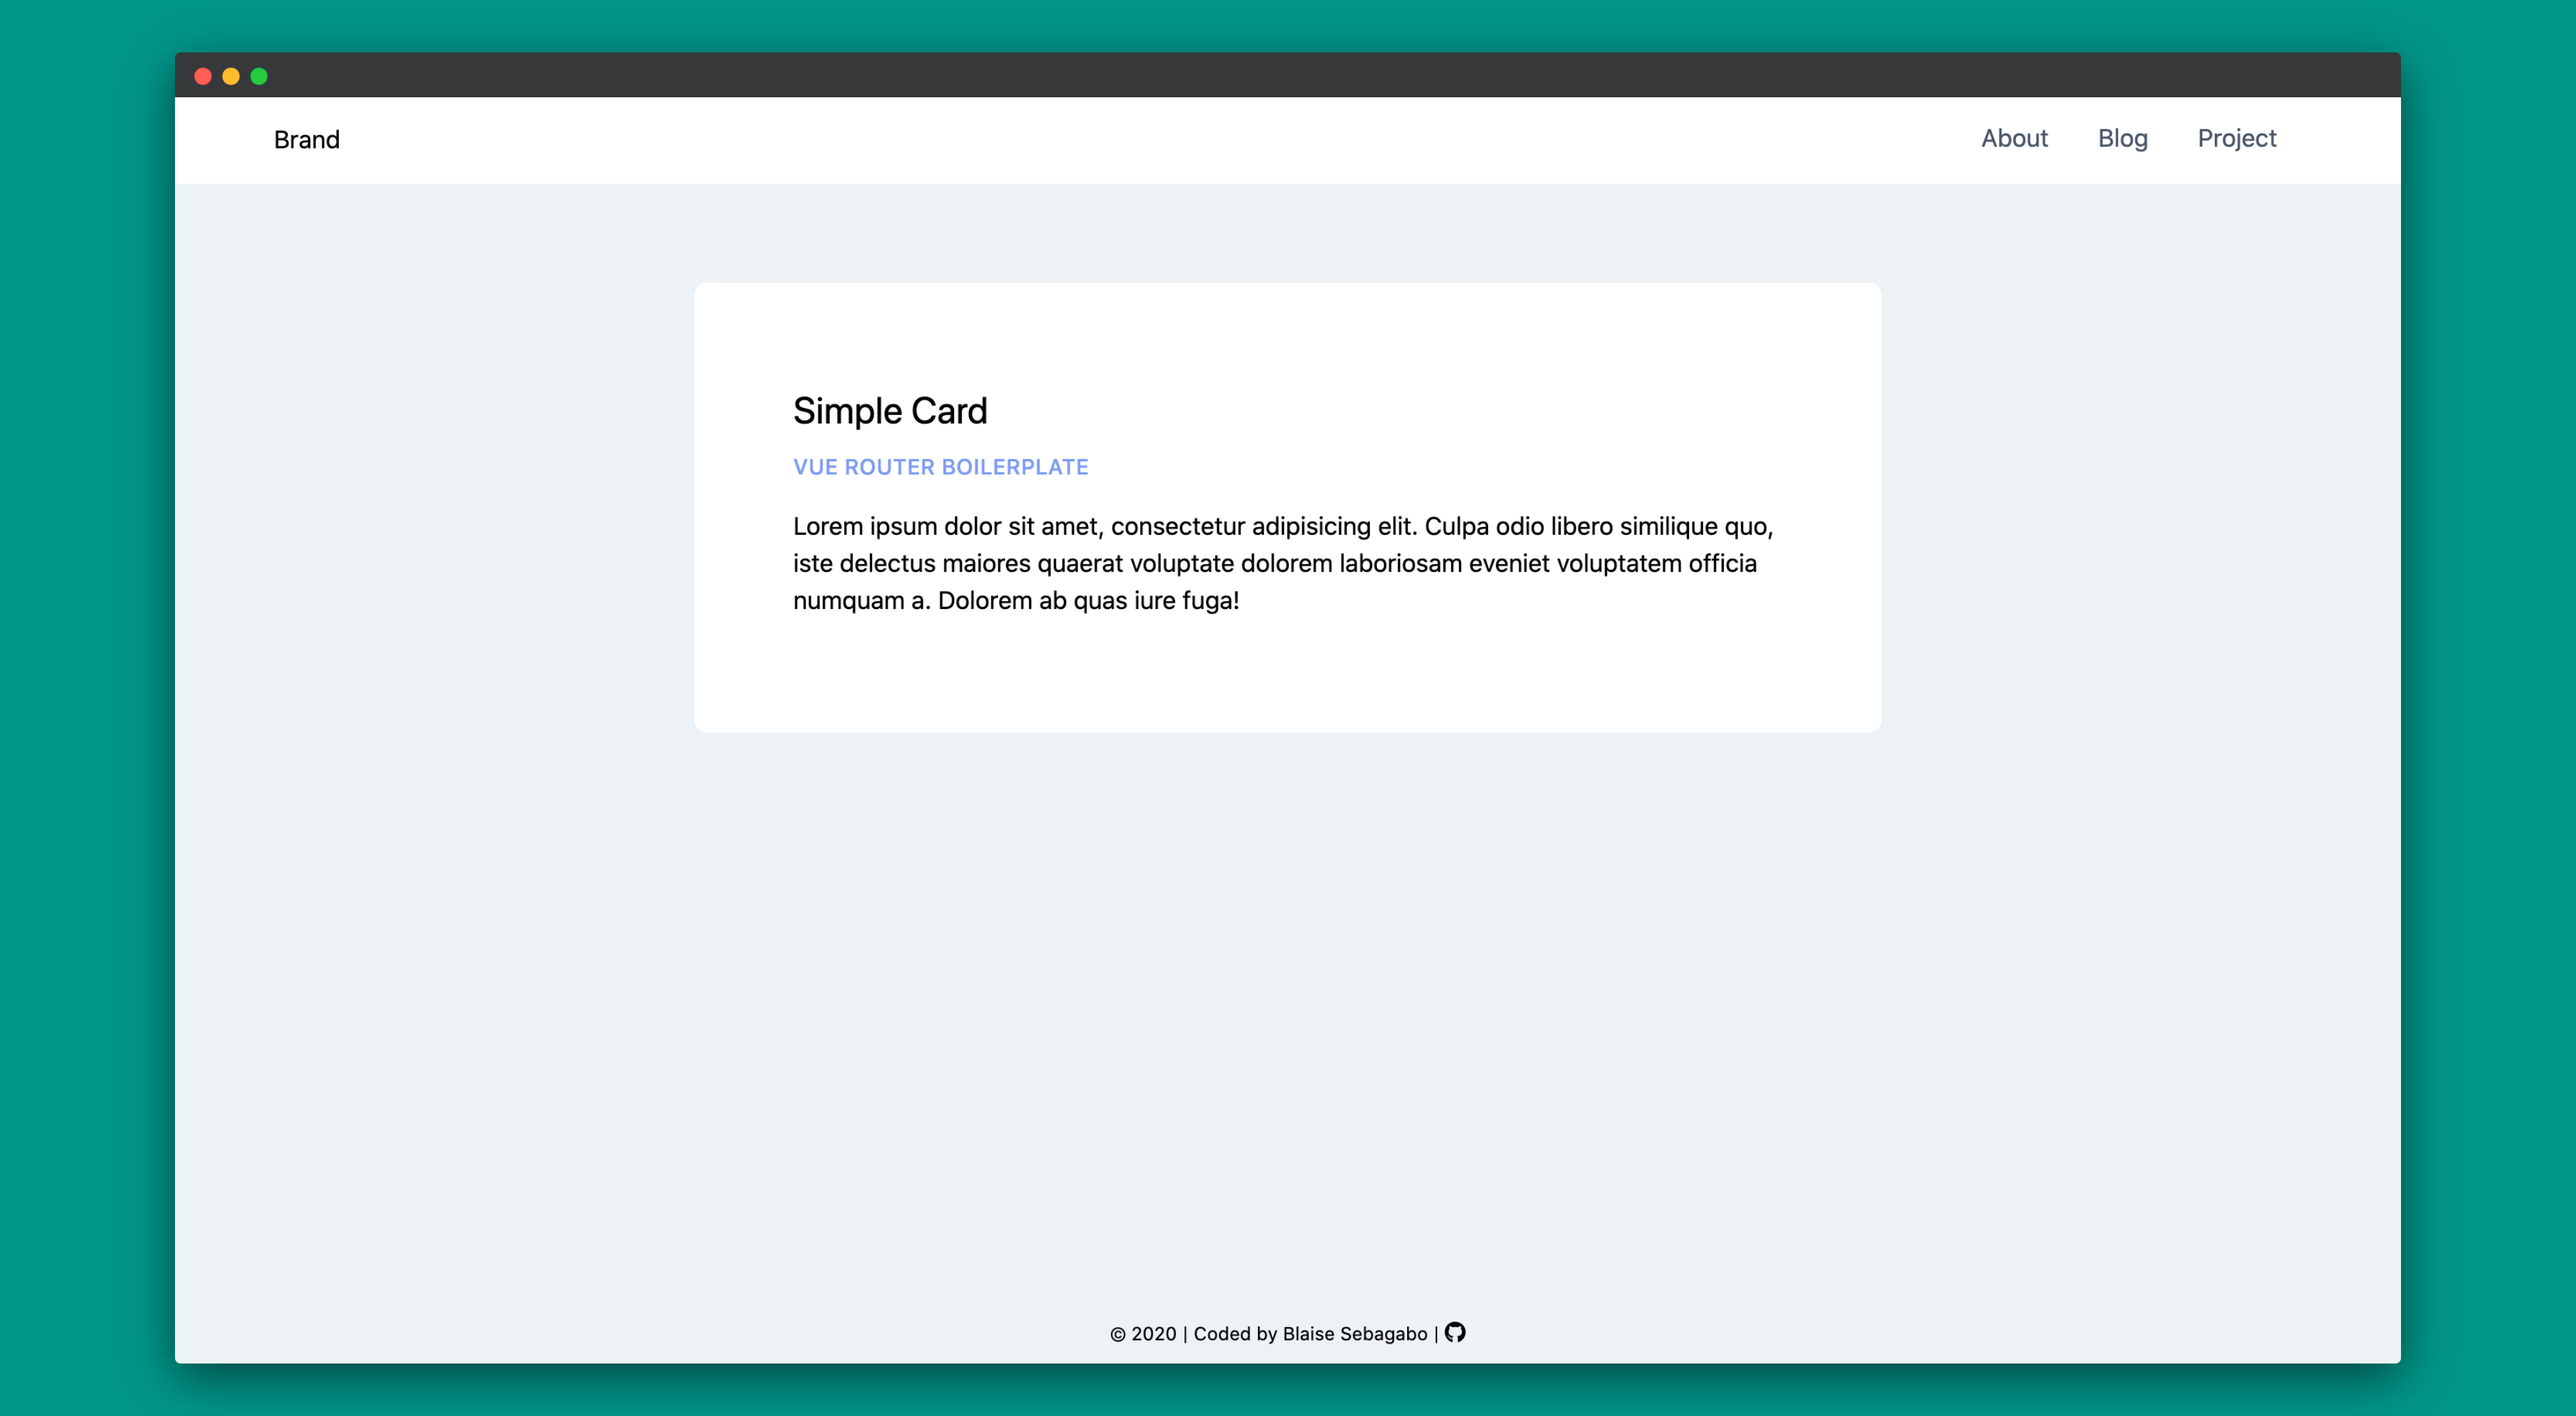
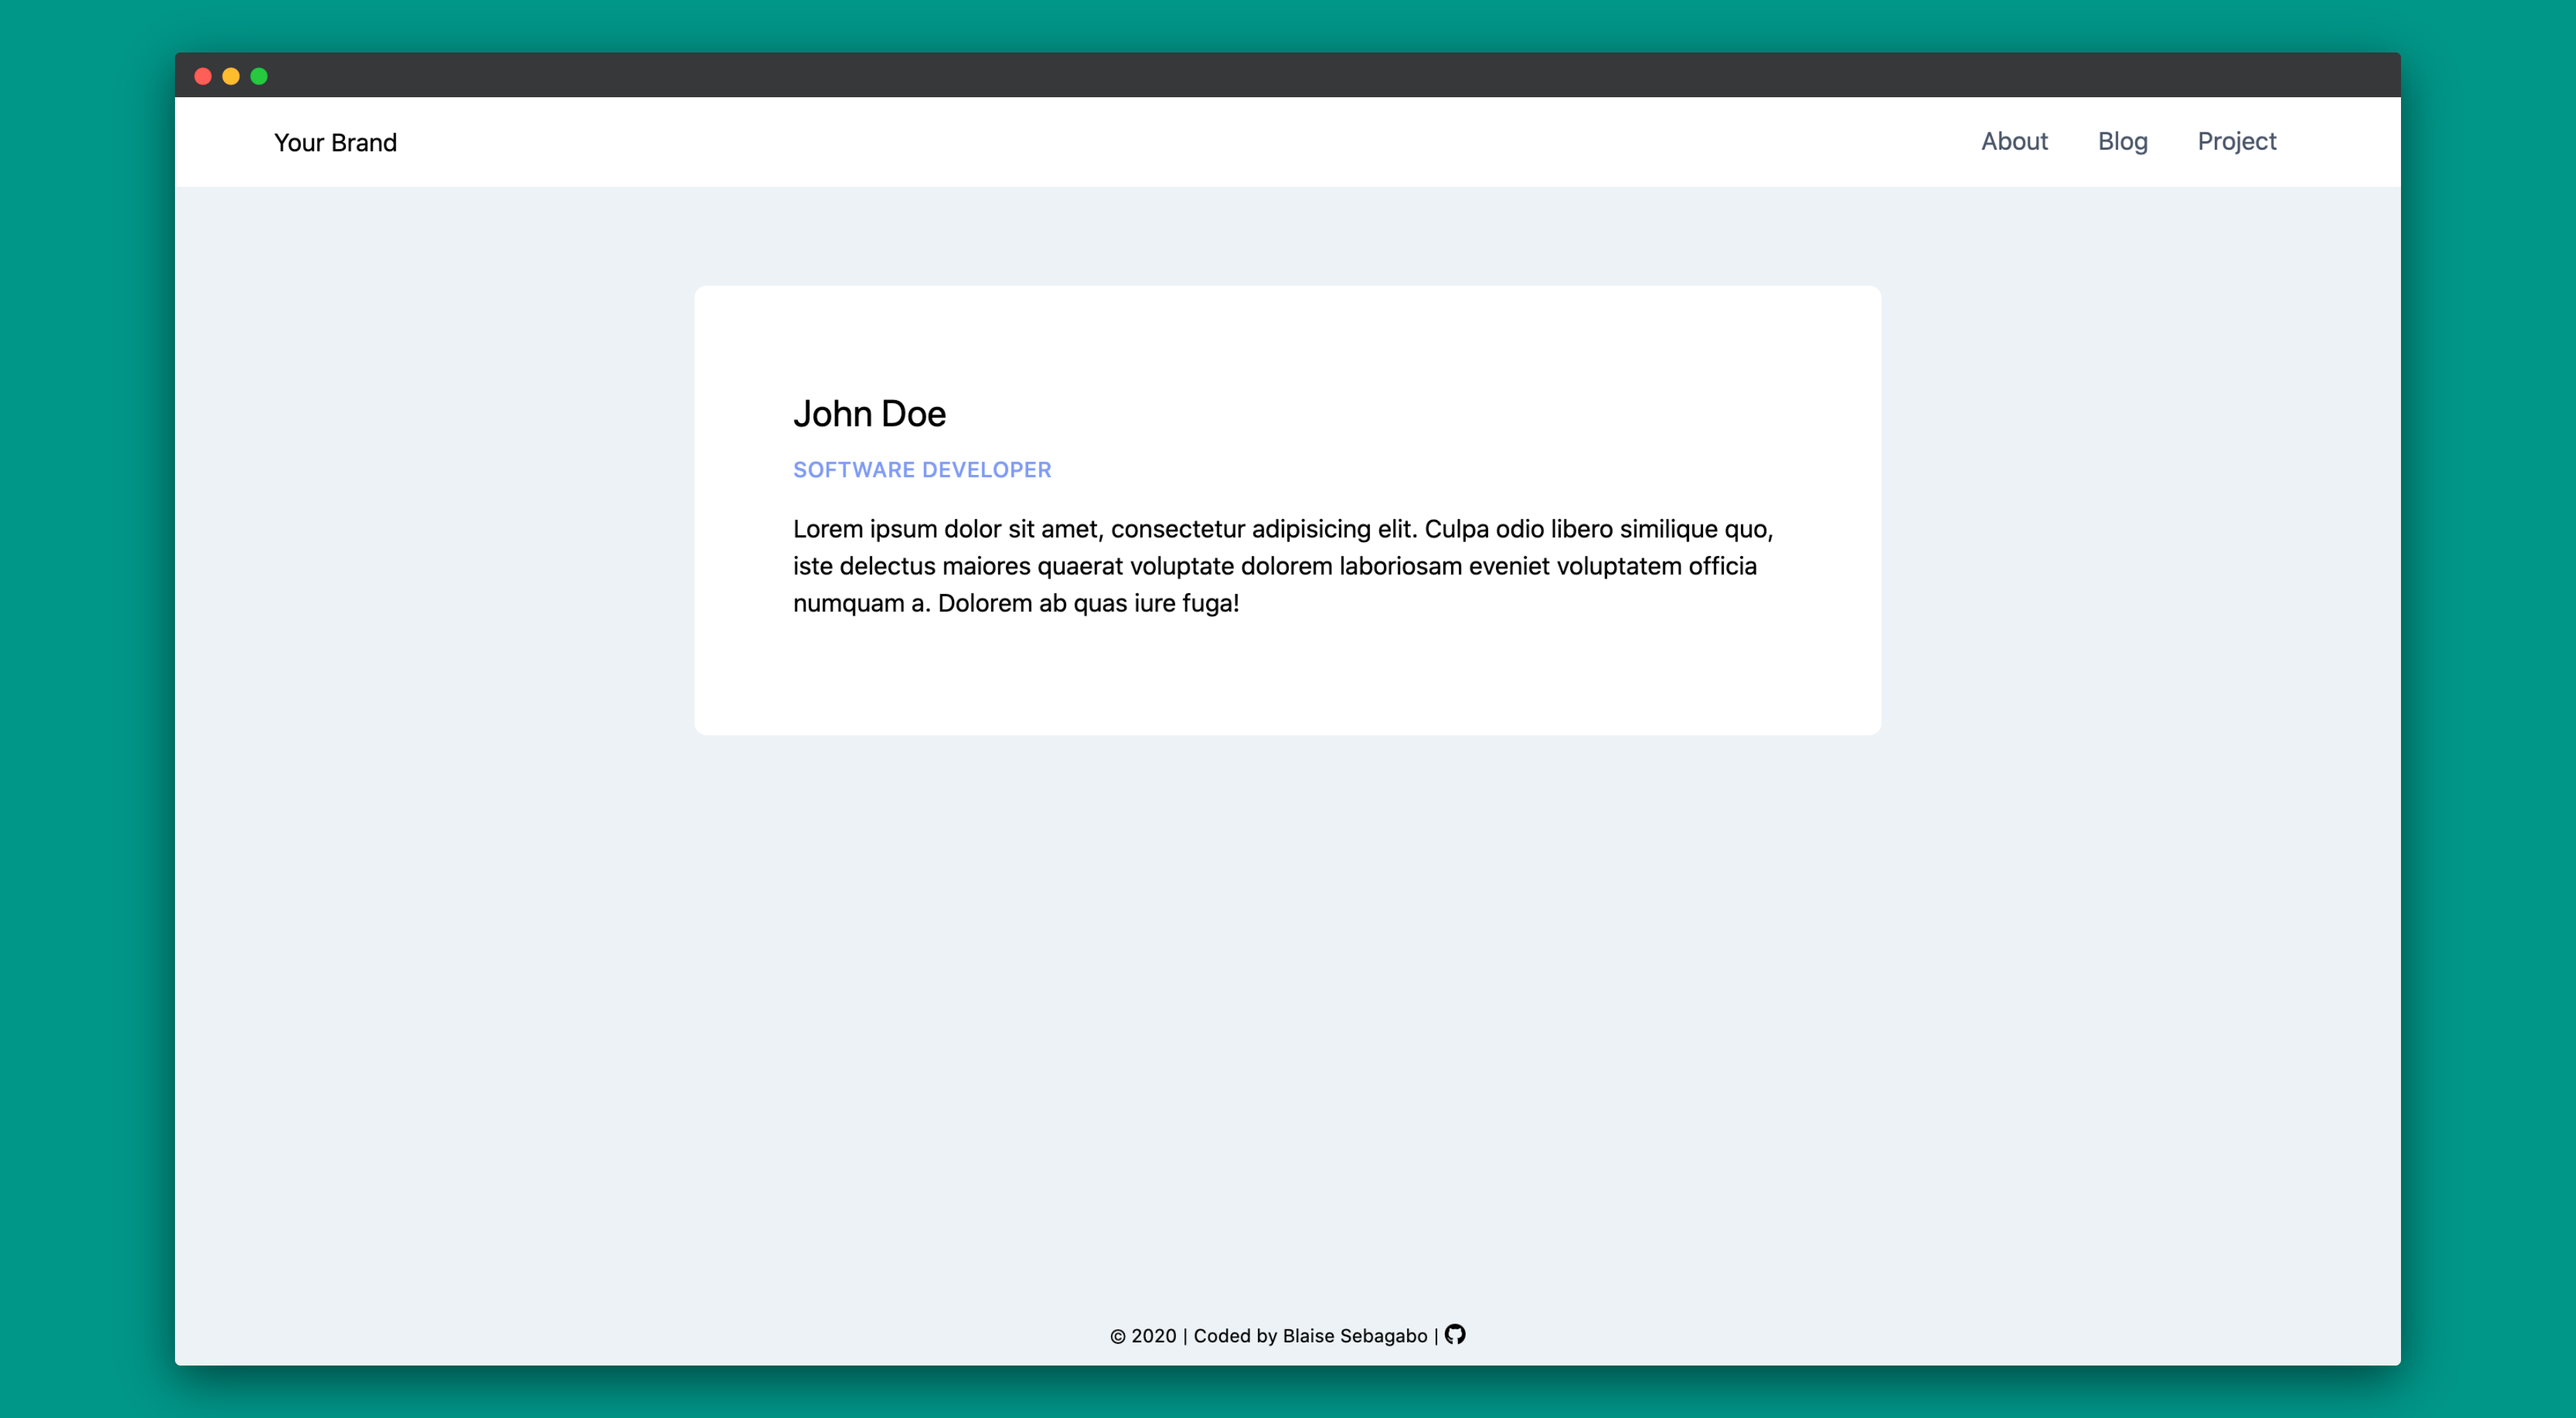
updated the screenshot

diff --git a/src/views/Home.vue b/src/views/Home.vue
@@ -3,8 +3,8 @@
         <div class="container mx-auto">
             <div class="px-4">
                 <div class="max-w-3xl bg-white rounded-lg mx-auto my-16 p-16">
-                    <h1 class="text-2xl font-medium mb-2">Simple Card</h1>
-                    <h2 class="font-medium text-sm text-indigo-400 mb-4 uppercase tracking-wide">Vue Router Boilerplate</h2>
+                    <h1 class="text-2xl font-medium mb-2">John Doe</h1>
+                    <h2 class="font-medium text-sm text-indigo-400 mb-4 uppercase tracking-wide">Software Developer</h2>
                     <p>
                         Lorem ipsum dolor sit amet, consectetur adipisicing elit. Culpa odio libero similique quo, iste delectus maiores quaerat voluptate dolorem laboriosam eveniet voluptatem officia numquam a. Dolorem ab quas iure fuga!
                     </p>
@@ -13,7 +13,6 @@
         </div>
     </div>
 </template>
-
 <script>
 export default {
   name: 'home',

diff --git a/src/components/Navigation.vue b/src/components/Navigation.vue
@@ -1,7 +1,7 @@
 <template>
     <header class="lg:px-16 px-6 bg-white flex flex-wrap items-center lg:py-0 py-2">
         <div class="flex-1 flex justify-between items-center">
-            <router-link to="/">Brand</router-link>
+            <router-link to="/">Your Brand</router-link>
             <label for="menu-toggle" class="cursor-pointer lg:hidden block">
                <svg xmlns="http://www.w3.org/2000/svg" class="fill-current text-gray-900" width="24" height="24" viewBox="0 0 24 24"><path d="M24 6h-24v-4h24v4zm0 4h-24v4h24v-4zm0 8h-24v4h24v-4z"/></svg>
             </label>
